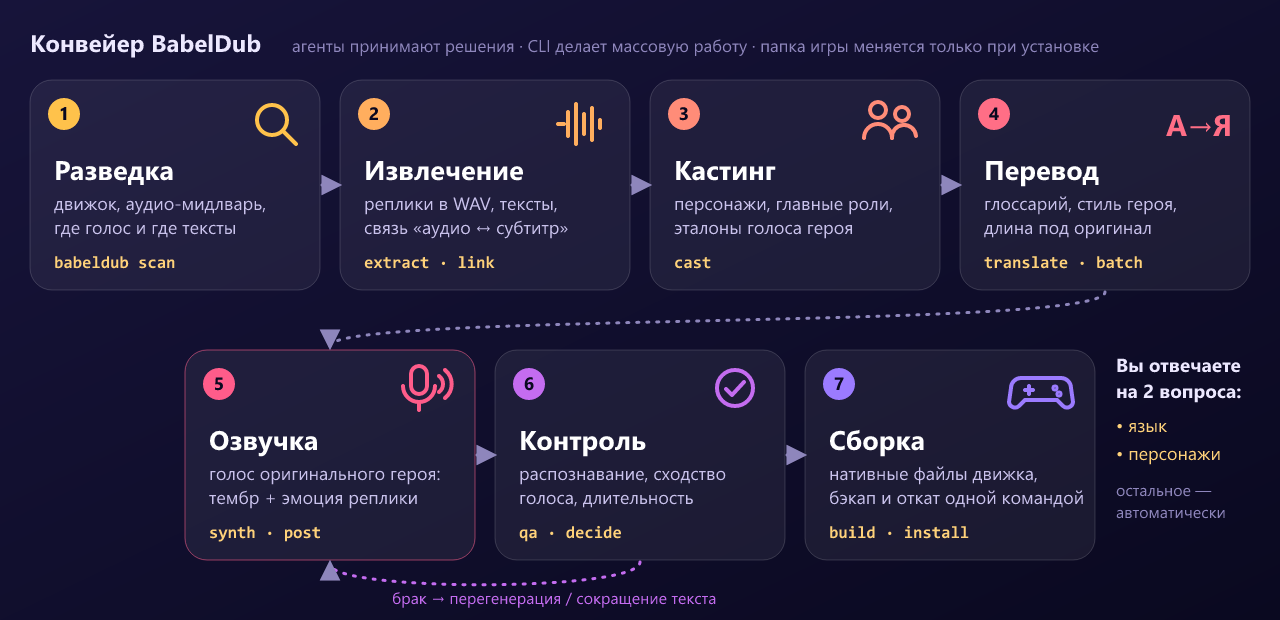
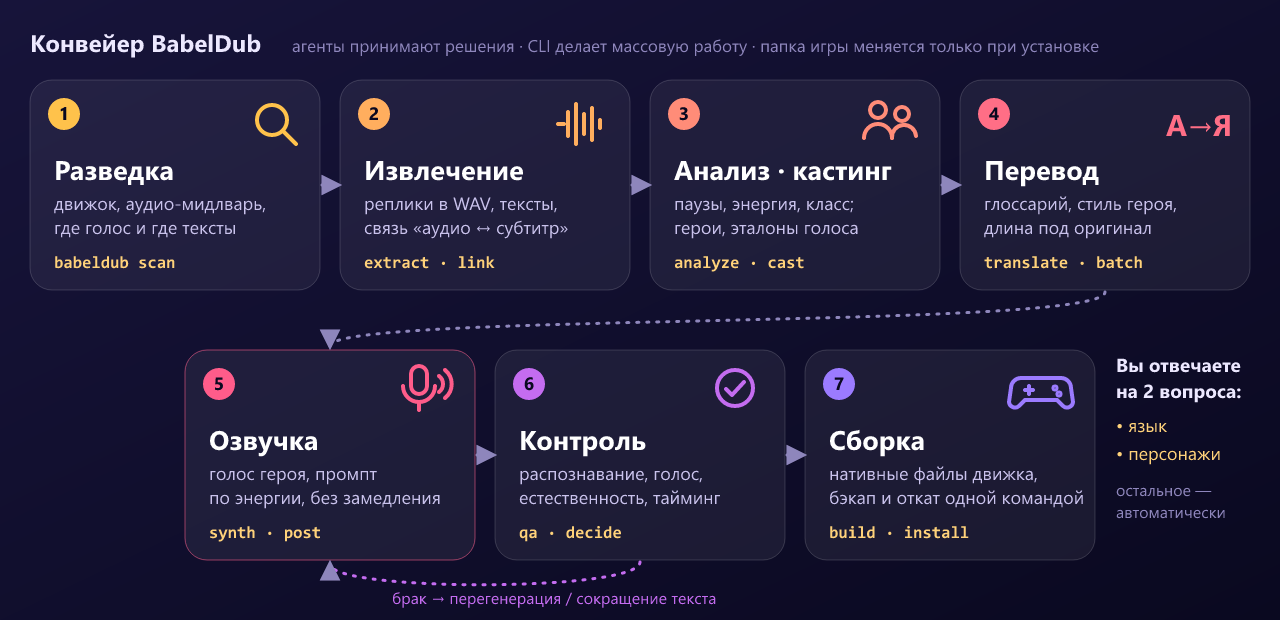
Docs for the v0.2 pipeline: analyze step, energy-matched prompts, scored best-of, measured v0.2 numbers, updated pipeline illustration

Changed region(s): [[0.5312, 0.2452, 0.6875, 0.429], [0.1562, 0.7355, 0.3438, 0.8274], [0.4062, 0.7355, 0.5625, 0.8274]]

diff --git a/README.ru.md b/README.ru.md
@@ -20,7 +20,7 @@
 
 <p align="center"><img src="assets/voice-ru.png" alt="Дубляж голосом оригинального героя" width="100%"></p>
 
-Главный принцип BabelDub — **дубляж голосом оригинального персонажа**: тот же тембр, та же эмоция, та же подача, но на вашем языке. Голосовой промпт всегда собирается из оригинальных записей героя: длинный эталон из чистых реплик актёра задаёт тембр, а когда первые озвученные реплики героя проходят контроль, они становятся промптом на вашем языке — и остальное звучит по-родному, без акцента. Каждую реплику модель генерирует трижды, и побеждает дубль, ближе всего совпавший с оригиналом по длине; затем RVC-модель, обученная на репликах каждого главного героя, возвращает тембр к оригинальному актёру. Контроль качества сравнивает голос синтеза с оригиналом и отправляет «уплывшие» реплики на перегенерацию. Мимику и липсинк BabelDub не трогает: меняется только звук, а каждый файл сохраняет точную длину оригинала.
+Главный принцип BabelDub — **дубляж голосом оригинального персонажа**: тот же тембр, та же эмоция, та же подача, но на вашем языке. Сначала агент «слушает» каждую оригинальную реплику: где начинается речь и где паузы, что сказано, насколько громко и эмоционально. Голосовой промпт всегда собирается из оригинальных записей героя и подбирается под энергию реплики (спокойно, оживлённо, крик, тихо): длинный эталон из чистых реплик актёра задаёт тембр, а когда первые озвученные реплики героя проходят контроль, лучшие из них становятся промптами на вашем языке — и остальное звучит по-родному, без акцента. Каждую реплику модель генерирует несколько раз, и побеждает дубль, который лучше сохранил подачу оригинала, естественность, длину и голос; затем RVC-модель, обученная на репликах каждого главного героя, возвращает тембр к оригинальному актёру. Речь никогда не замедляется ради длины: сокращаются паузы или речь чуть ускоряется (не больше ×1,15), а реплики катсцен раскладываются по фразам на тайминг оригинала. Крики, смех и междометия остаются оригинальными. Контроль качества сравнивает дубль с оригиналом по голосу, словам, естественности и таймингу и отправляет «уплывшие» реплики на перегенерацию. Мимику и липсинк BabelDub не трогает: меняется только звук, а каждый файл сохраняет точную длину оригинала.
 
 ## Как это работает
 
@@ -28,11 +28,12 @@
 
 1. **Разведка** — движок, аудио-мидлварь (FMOD, Wwise, CRIWARE…), где голос и где тексты, уровень поддержки.
 2. **Извлечение** — реплики в WAV, тексты всех языков, связь «аудио ↔ субтитр» по ключам.
-3. **Кастинг** — персонажи по метаданным игры или кластеризации голосов, главные роли, эталоны голоса.
-4. **Перевод** — ИИ-агенты-переводчики работают пакетами по сценам: глоссарий, стиль героя, плейсхолдеры, бюджет длины. Если в игре уже есть официальный перевод, он адаптируется под устную речь (числа словами, имена кириллицей, разговорный стиль) и остаётся в субтитрах.
-5. **Озвучка** — клонирование голоса героя локальной моделью (по умолчанию VoxCPM2), лучший из трёх дублей, точная длина и громкость оригинала, затем перенос тембра RVC для главных героев.
-6. **Контроль** — распознавание синтеза (CER), сходство голоса, длительность; брак уходит на перегенерацию или сокращение текста.
-7. **Сборка** — нативные контейнеры движка (например, FMOD `.bank` пересобирается без проприетарных утилит), установка с бэкапом и откат одной командой.
+3. **Анализ** — каждая оригинальная реплика: сегменты речи и паузы, что сказано на самом деле (распознавание со временем слов), диапазон высоты, громкость и темп, класс реплики (речь, короткое слово, междометие, невербальное).
+4. **Кастинг** — персонажи по метаданным игры или кластеризации голосов, главные роли, эталоны голоса по энергии (спокойно, оживлённо, крик, тихо).
+5. **Перевод** — ИИ-агенты-переводчики работают пакетами по сценам: глоссарий, стиль героя, плейсхолдеры, бюджет длины по длительности речи оригинала и темпу героя. Если в игре уже есть официальный перевод, он адаптируется под устную речь (числа словами, имена кириллицей, разговорный стиль) и остаётся в субтитрах.
+6. **Озвучка** — клонирование голоса героя локальной моделью (по умолчанию VoxCPM2) с промптом под энергию реплики, несколько дублей с оценкой подачи, естественности, длины и голоса, точная длина и громкость оригинала без замедления речи, затем перенос тембра RVC для главных героев.
+7. **Контроль** — распознавание синтеза (CER), сходство голоса, естественность (UTMOS), подача в сравнении с оригиналом, тайминг катсцен; брак уходит на перегенерацию или сокращение текста, а неисправимое остаётся оригиналом.
+8. **Сборка** — нативные контейнеры движка (например, FMOD `.bank` пересобирается без проприетарных утилит), установка с бэкапом и откат одной командой.
 
 Вам задают **ровно два вопроса**: на какой язык переводить и каких персонажей озвучивать (всех, главных или по списку). Всё остальное — автоматически, с отчётом в конце.
 
@@ -104,10 +105,13 @@ npx skills add KROU4/BabelDub
 | Клонирование голоса | VoxCPM2 (2B, 48 кГц, 30 языков, включая русский и польский) | Apache-2.0 |
 | Перенос тембра | RVC v2 через Applio: своя модель для каждого главного героя, обученная на его репликах | MIT |
 | Слабые GPU и CPU | Qwen3-TTS-12Hz (1.7B / 0.6B), Chatterbox Multilingual для польского, турецкого и др. | Apache-2.0, MIT |
-| Распознавание для контроля | faster-whisper large-v3-turbo | MIT |
+| Сегменты речи, распознавание | Silero VAD + faster-whisper large-v3-turbo | MIT |
 | Сходство голоса | SpeechBrain ECAPA | Apache-2.0 |
+| Естественность | UTMOS22 (SpeechMOS) | MIT |
 
-Связку выбрали слепым прослушиванием на Low-Budget Repairs (английский → русский): у VoxCPM2 + RVC CER 0,045 (у Qwen3-TTS + RVC — 0,050), сходство с голосом актёра ~0,65–0,70 при 0,77 между его собственными репликами. По умолчанию ставятся только модели с открытыми лицензиями (Apache/MIT). Модели с некоммерческой лицензией подключаются только с вашего явного согласия. Тиры для CPU, 12 и 24 ГБ — в [docs/MODELS.md](docs/MODELS.md).
+Связку выбрали слепым прослушиванием на Low-Budget Repairs (английский → русский): у VoxCPM2 + RVC CER 0,045 (у Qwen3-TTS + RVC — 0,050), сходство с голосом актёра ~0,65–0,70 при 0,77 между его собственными репликами.
+
+**v0.2 против v0.1** на тестовом наборе из 38 реплик (шесть героев, короткие слова, катсцены; те же русские тексты и те же метрики): замедленных реплик 17 → 0, растянутых по времени 74 % → 15 %, естественность UTMOS 2,64 → 3,14 (у оригиналов 3,14), сходство голоса 0,544 → 0,606, разница диапазона высоты дубля и оригинала 5,6 → 3,4 полутона, CER озвученных реплик 0,054 → 0,034. Пять реплик из 38 (выкрики, которые не удалось озвучить узнаваемо) остаются оригиналом. По умолчанию ставятся только модели с открытыми лицензиями (Apache/MIT). Модели с некоммерческой лицензией подключаются только с вашего явного согласия. Тиры для CPU, 12 и 24 ГБ — в [docs/MODELS.md](docs/MODELS.md).
 
 ## Ответственное использование
 

diff --git a/README.md b/README.md
@@ -20,7 +20,7 @@
 
 <p align="center"><img src="assets/voice.png" alt="Dub with the original hero's voice" width="100%"></p>
 
-BabelDub's core principle is **dubbing with the original character's voice**: the same timbre, the same emotion, the same delivery — just in your language. The voice prompt is always the character's own original recordings: a long reference of the actor's clean lines gives the timbre, and once the character's first dubbed lines pass QA, they become a prompt in your language so the rest sounds native, not accented. Every line is generated three times and the take closest to the original's length wins; an RVC model trained on each main character's lines then pulls the timbre back to the original actor. QA compares every dub with the original speaker and sends lines whose voice drifted back for regeneration. Lip-sync is not touched: only the audio changes, and each file keeps exactly the original's length.
+BabelDub's core principle is **dubbing with the original character's voice**: the same timbre, the same emotion, the same delivery — just in your language. First the agent listens to every original line: where the speech starts and pauses, what is said, how loud and how animated it is. The voice prompt is always the character's own original recordings, matched to the line's energy (calm, animated, shouting, quiet): a long reference of the actor's clean lines gives the timbre, and once the character's first dubbed lines pass QA, the best of them become prompts in your language so the rest sounds native, not accented. Every line is generated several times, and the take that best keeps the original's delivery, naturalness, length and voice wins; an RVC model trained on each main character's lines then pulls the timbre back to the original actor. Speech is never slowed down to fill time: pauses are shortened or the speech is sped up a little (at most ×1.15), and cutscene lines are placed phrase by phrase on the original's timing. Screams, laughs and interjections keep the original audio. QA compares every dub with the original speaker and sends lines whose voice, words, naturalness or timing drifted back for regeneration. Lip-sync is not touched: only the audio changes, and each file keeps exactly the original's length.
 
 ## How it works
 
@@ -28,11 +28,12 @@ BabelDub's core principle is **dubbing with the original character's voice**: th
 
 1. **Recon** — engine, audio middleware (FMOD, Wwise, CRIWARE…), where voice and text live, support level.
 2. **Extract** — lines to WAV, texts in every language, audio ↔ subtitle links by engine keys.
-3. **Cast** — characters from game metadata or voice clustering, main roles, voice references.
-4. **Translate** — translator agents work in scene batches with a glossary, character style, placeholder checks and a length budget. If the game already ships an official translation, it is adapted for speech (numbers as words, names transliterated, colloquial) and stays the subtitle.
-5. **Voice** — local voice cloning (VoxCPM2 by default), best of three takes, exact length and loudness of the original, then RVC timbre transfer per main character.
-6. **QA** — speech recognition of the dub (CER), speaker similarity, duration; rejects are regenerated or shortened.
-7. **Repack** — native engine containers (for example, FMOD `.bank` files are rebuilt without proprietary tools), installed with a backup and one-command rollback.
+3. **Analyze** — every original line: speech segments and pauses, what is actually said (speech recognition with word times), pitch range, loudness and speaking rate, and a line class (speech, short word, interjection, nonverbal).
+4. **Cast** — characters from game metadata or voice clustering, main roles, voice references sorted by energy (calm, animated, loud, soft).
+5. **Translate** — translator agents work in scene batches with a glossary, character style, placeholder checks and a length budget from the original's speech span and the character's speaking rate. If the game already ships an official translation, it is adapted for speech (numbers as words, names transliterated, colloquial) and stays the subtitle.
+6. **Voice** — local voice cloning (VoxCPM2 by default) with a prompt matched to the line's energy, several takes scored for delivery, naturalness, length and voice, exact length and loudness of the original without slowing speech down, then RVC timbre transfer per main character.
+7. **QA** — speech recognition of the dub (CER), speaker similarity, naturalness (UTMOS), delivery compared with the original, cutscene timing; rejects are regenerated or shortened, and what cannot be fixed keeps the original.
+8. **Repack** — native engine containers (for example, FMOD `.bank` files are rebuilt without proprietary tools), installed with a backup and one-command rollback.
 
 You are asked **exactly two questions**: which language, and which characters to dub (all, the main ones, or a list). Everything else is automatic and summarized in a final report. The agent talks to you in your language.
 
@@ -104,10 +105,13 @@ Download `babeldub-kit-<version>.zip` from [Releases](https://github.com/KROU4/B
 | Voice cloning | VoxCPM2 (2B, 48 kHz, 30 languages incl. English, Russian, Polish, German, French, Spanish, Japanese, Chinese) | Apache-2.0 |
 | Timbre transfer | RVC v2 via Applio, one model per main character trained on its original lines | MIT |
 | Smaller GPUs and CPU | Qwen3-TTS-12Hz (1.7B / 0.6B), Chatterbox Multilingual for Polish, Turkish and more | Apache-2.0, MIT |
-| QA speech recognition | faster-whisper large-v3-turbo | MIT |
+| Speech segments, speech recognition | Silero VAD + faster-whisper large-v3-turbo | MIT |
 | Speaker similarity | SpeechBrain ECAPA | Apache-2.0 |
+| Naturalness | UTMOS22 (SpeechMOS) | MIT |
 
-Chosen in blind listening rounds on Low-Budget Repairs (English → Russian): VoxCPM2 + RVC reached a CER of 0.045 (Qwen3-TTS + RVC: 0.050) and a speaker similarity of ~0.65–0.70 to the original actor, whose own lines score 0.77 among themselves. Only permissively licensed models (Apache/MIT) are installed by default. Non-commercial models are enabled only with your explicit consent. Tiers for CPU, 12 and 24 GB GPUs: [docs/MODELS.md](docs/MODELS.md).
+Chosen in blind listening rounds on Low-Budget Repairs (English → Russian): VoxCPM2 + RVC reached a CER of 0.045 (Qwen3-TTS + RVC: 0.050) and a speaker similarity of ~0.65–0.70 to the original actor, whose own lines score 0.77 among themselves.
+
+**v0.2 against v0.1** on a 38-line test set (six characters, short words, cutscenes; the same Russian texts, the same metrics): slowed-down lines 17 → 0, time-stretched lines 74 % → 15 %, UTMOS naturalness 2.64 → 3.14 (the originals score 3.14), speaker similarity 0.544 → 0.606, the gap between the dub's and the original's pitch range 5.6 → 3.4 semitones, CER of the dubbed lines 0.054 → 0.034. Five of the 38 lines (shouts that could not be voiced recognizably) keep the original. Only permissively licensed models (Apache/MIT) are installed by default. Non-commercial models are enabled only with your explicit consent. Tiers for CPU, 12 and 24 GB GPUs: [docs/MODELS.md](docs/MODELS.md).
 
 ## Responsible use
 

diff --git a/skills/babeldub-cast/references/ref-selection.md b/skills/babeldub-cast/references/ref-selection.md
@@ -2,9 +2,11 @@
 
 Read this when checking the references of the main characters, when `no_ref[]` is not empty, and when you see warnings about relaxed rules.
 
-## 1. Why a reference, if the prompt is the line itself
+## 1. What the references are for
 
-The main voice prompt of the dub is the original recording of the same line (`tts.ref_strategy=line`, skill `babeldub-voice`): it carries both the timbre and the emotion of that phrase. The character reference (`char`) is needed where the line cannot serve as a prompt:
+With the default engine VoxCPM2 (`tts.ref_strategy=bootstrap`, skill `babeldub-voice`), every line is voiced from the character's **long reference** of its arousal bucket (calm, animated, loud, soft; `bucket` in `refs.jsonl`): several clean original lines joined into ~15–20 s that carry the timbre. Once QA accepts the character's first dubs, a target-language prompt bank is built from them. So the references decide the timbre of the whole role.
+
+With the fallback engines (Qwen3-TTS, Chatterbox) the prompt is the original line itself (`tts.ref_strategy=line`), and the character reference (`char`) is needed where the line cannot serve as a prompt:
 
 - short lines ("Yes", "Hey!") below `tts.line_ref_min_s` (1.6 s);
 - lines with music or noise under the voice (`has_bed`) and non-verbal lines (`nonverbal`);
@@ -48,11 +50,11 @@ You cannot hear audio. Check by text, flags and numbers:
 3. **Scene and key.** Keys like `_shout`, `_whisper`, `_radio`, `_phone`, `_scream`, and fight or chase scenes are suspicious for a neutral reference.
 4. **Flags** `has_bed` and `nonverbal` must not be on a reference (if the rules were relaxed, they may be; that is a warning).
 
-What to do with a bad reference in v0.1:
+What to do with a bad reference:
 
 - if the character has several references and only the first is bad, record it in `notes`: on `reref`, QA moves on to the next one;
-- if all of them are bad, record it in the character's `notes`, in `warnings` of your answer, and as a line in the report. You can re-run `babeldub cast --refs 3 --min-ref-s 4` with different duration bounds; v0.1 does not let you pick a specific file by hand;
-- if a main character has no good reference at all, keep `tts.ref_strategy=line` for them (the default `auto` already takes `line` for every usable line) and do not switch to `char`.
+- if all of them are bad, record it in the character's `notes`, in `warnings` of your answer, and as a line in the report. You can re-run `babeldub cast --refs 3 --min-ref-s 4` with different duration bounds; the CLI does not let you pick a specific file by hand;
+- if a main character has no good reference at all, say so in the report: with VoxCPM2 the whole role inherits the reference's noise or delivery; with a fallback engine keep `tts.ref_strategy=line` for them and do not switch to `char`.
 
 ## 5. Reference language
 

diff --git a/AGENTS.md b/AGENTS.md
@@ -6,7 +6,7 @@ Codex, Copilot, Cursor, Gemini CLI, OpenCode and Claude Code (2.1.277+) read thi
 
 BabelDub is a public set of skills, agents and hooks for AI agents (Claude Code, Codex, Gemini CLI and others) plus the `babeldub` Python CLI. Together they localize and re-voice **any game**: they find the voice-over and the texts, translate them, clone the voices of the original characters with local TTS models and pack the files back into the engine's native formats.
 
-**The core principle of the voice work is dubbing, not text-to-speech.** Every line in the target language sounds like the original character: same timbre, same emotion and delivery. That is why the default voice prompt is the original line itself with its source text (`tts.ref_strategy=line`); short and noisy lines use the character's best reference (`char`); and QA compares the synthesized voice with the original. Any change that weakens this principle must be discussed in an issue first.
+**The core principle of the voice work is dubbing, not text-to-speech.** Every line in the target language sounds like the original character: same timbre, same emotion and delivery. That is why the voice prompt is always built from the character's own original recordings (the default `tts.ref_strategy=bootstrap` for VoxCPM2: a long reference per arousal bucket, then a target-language prompt bank from the character's accepted dubs; `line` and `char` for the other engines), speech is never slowed down to fit the original's length, and QA compares the dub with the original's voice, words, naturalness and delivery. Any change that weakens this principle must be discussed in an issue first.
 
 **GPU-first.** When an NVIDIA GPU is present, all neural compute (TTS, ASR, speaker embeddings, clustering, separation) runs on it (`compute.device=auto`). See `docs/dev/CONTRACT.md` §1.6.
 
